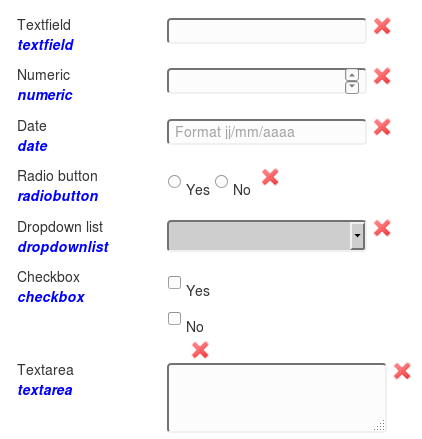
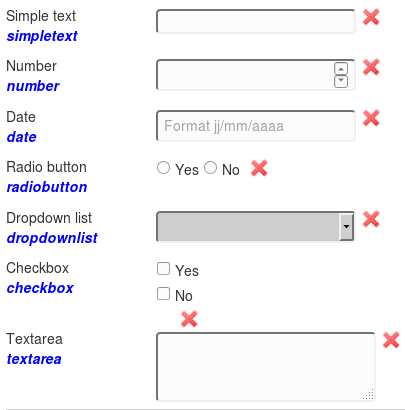
update cosmetique, refactoring

diff --git a/webapp/protected/controllers/FileImportController.php b/webapp/protected/controllers/FileImportController.php
@@ -66,7 +66,7 @@ class FileImportController extends Controller {
                 $fileImport->filename = date('Ymd_H') . 'h' . date('i') . '_' . $uploadedFile->filename->getName();
                 $fileImport->filesize = $uploadedFile->filename->getSize();
                 $fileImport->extension = $uploadedFile->filename->getExtensionName();
-                $fileImport->date_import = DateTime::createFromFormat('d/m/Y', date('d/m/Y'));
+                $fileImport->date_import = DateTime::createFromFormat(CommonTools::FRENCH_SHORT_DATE_FORMAT, date(CommonTools::FRENCH_SHORT_DATE_FORMAT));
                 $fileImport->save();
                 Yii::app()->user->setFlash('succès', Yii::t('common', 'fileMakerImported'));
             } else {
@@ -317,9 +317,9 @@ class FileImportController extends Controller {
                 $answer->login = new MongoId($user->_id);
                 $answer->questionnaireMongoId = new MongoId();
                 $answer->name = "Import Neuropath";
-                $answer->last_modified = DateTime::createFromFormat('d/m/Y', date('d/m/Y'));
+                $answer->last_modified = DateTime::createFromFormat(CommonTools::FRENCH_SHORT_DATE_FORMAT, date(CommonTools::FRENCH_SHORT_DATE_FORMAT));
                 $answer->description = "Données neuropathologiques de la base FileMaker";
-                $answer->last_updated = DateTime::createFromFormat('d/m/Y', date('d/m/Y'));
+                $answer->last_updated = DateTime::createFromFormat(CommonTools::FRENCH_SHORT_DATE_FORMAT, date(CommonTools::FRENCH_SHORT_DATE_FORMAT));
                 $answerGroup = new AnswerGroup;
                 $answerGroup->id = "onglet";
                 $answerGroup->title = "Données neuropathologiques FileMaker";
@@ -336,7 +336,7 @@ class FileImportController extends Controller {
                             $answerQuestion->type = ColumnFileMaker::model()->findByAttributes(array('newColumn' => $answerQuestion->label))->type;
                             $answerQuestion->style = "";
                             if ($answerQuestion->type == "date") {
-                                $answerQuestion->answer = DateTime::createFromFormat('d/m/Y', date('d/m/Y', strtotime($v)));
+                                $answerQuestion->answer = DateTime::createFromFormat(CommonTools::FRENCH_SHORT_DATE_FORMAT, date(CommonTools::FRENCH_SHORT_DATE_FORMAT, strtotime($v)));
                             } elseif ($answerQuestion->type == "number") {
                                 $answerQuestion->answer = new MongoInt32($v);
                             } else {

diff --git a/webapp/protected/modules/auditTrail/behaviors/LoggableBehavior.php b/webapp/protected/modules/auditTrail/behaviors/LoggableBehavior.php
@@ -46,7 +46,7 @@ class LoggableBehavior extends CActiveRecordBehavior {
                     }
                     $log->model_id = $modelId;
                     $log->field = $name;
-                    $log->stamp = DateTime::createFromFormat('d/m/Y', date('d/m/Y'));
+                    $log->stamp = DateTime::createFromFormat(CommonTools::FRENCH_SHORT_DATE_FORMAT, date(CommonTools::FRENCH_SHORT_DATE_FORMAT));
                     $log->user_id = $userid;
                     $log->save();
                 }
@@ -59,7 +59,7 @@ class LoggableBehavior extends CActiveRecordBehavior {
             $log->model = get_class($this->Owner);
             $log->model_id = $this->Owner->_id;
             $log->field = 'N/A';
-            $log->stamp = DateTime::createFromFormat('d/m/Y', date('d/m/Y'));
+            $log->stamp = DateTime::createFromFormat(CommonTools::FRENCH_SHORT_DATE_FORMAT, date(CommonTools::FRENCH_SHORT_DATE_FORMAT));
             $log->user_id = $userid;
             $log->save();
 
@@ -80,7 +80,7 @@ class LoggableBehavior extends CActiveRecordBehavior {
                 }
                 $log->model_id = $modelId;
                 $log->field = $name;
-                $log->stamp = DateTime::createFromFormat('d/m/Y', date('d/m/Y'));
+                $log->stamp = DateTime::createFromFormat(CommonTools::FRENCH_SHORT_DATE_FORMAT, date(CommonTools::FRENCH_SHORT_DATE_FORMAT));
                 $log->user_id = $userid;
                 $log->save();
             }
@@ -112,7 +112,7 @@ class LoggableBehavior extends CActiveRecordBehavior {
         }
         $log->model_id = $modelId;
         $log->field = 'N/A';
-        $log->stamp = DateTime::createFromFormat('d/m/Y', date('d/m/Y'));
+        $log->stamp = DateTime::createFromFormat(CommonTools::FRENCH_SHORT_DATE_FORMAT, date(CommonTools::FRENCH_SHORT_DATE_FORMAT));
         $log->user_id = $userid;
         $log->save();
         return parent::afterDelete($event);

diff --git a/webapp/protected/commands/ImportNeuropathCommand.php b/webapp/protected/commands/ImportNeuropathCommand.php
@@ -267,9 +267,9 @@ class ImportNeuropathCommand extends CConsoleCommand {
                 $answer->login = new MongoId($user->_id);
                 $answer->questionnaireMongoId = new MongoId();
                 $answer->name = "Import Neuropath";
-                $answer->last_modified = DateTime::createFromFormat('d/m/Y', date('d/m/Y'));
+                $answer->last_modified = DateTime::createFromFormat(CommonTools::FRENCH_SHORT_DATE_FORMAT, date(CommonTools::FRENCH_SHORT_DATE_FORMAT));
                 $answer->description = "Données neuropathologiques de la base FileMaker";
-                $answer->last_updated = DateTime::createFromFormat('d/m/Y', date('d/m/Y'));
+                $answer->last_updated = DateTime::createFromFormat(CommonTools::FRENCH_SHORT_DATE_FORMAT, date(CommonTools::FRENCH_SHORT_DATE_FORMAT));
                 $answerGroup = new AnswerGroup;
                 $answerGroup->id = "onglet";
                 $answerGroup->title = "Données neuropathologiques FileMaker";
@@ -292,7 +292,7 @@ class ImportNeuropathCommand extends CConsoleCommand {
                             }
                             $answerQuestion->style = "";
                             if ($answerQuestion->type == "date") {
-                                $answerQuestion->answer = DateTime::createFromFormat('d/m/Y', date('d/m/Y', strtotime($v)));
+                                $answerQuestion->answer = DateTime::createFromFormat(CommonTools::FRENCH_SHORT_DATE_FORMAT, date(CommonTools::FRENCH_SHORT_DATE_FORMAT, strtotime($v)));
                             } else {
                                 $answerQuestion->answer = $v;
                             }

diff --git a/webapp/protected/models/Answer.php b/webapp/protected/models/Answer.php
@@ -327,7 +327,7 @@ class Answer extends LoggableActiveRecord {
      */
     public function getLastModified() {
         if ($this->last_modified != null) {
-            return date('d/m/Y', strtotime($this->last_modified['date']));
+            return date(CommonTools::FRENCH_SHORT_DATE_FORMAT, strtotime($this->last_modified['date']));
         } else {
             return null;
         }
@@ -599,7 +599,7 @@ class Answer extends LoggableActiveRecord {
                     if ($answer->type != "date") {
                         $result = $answer->answer;
                     } else {
-                        $result = date('d/m/Y', strtotime($answer->answer['date']));
+                        $result = date(CommonTools::FRENCH_SHORT_DATE_FORMAT, strtotime($answer->answer['date']));
                     }
                 }
             }
@@ -802,7 +802,7 @@ class Answer extends LoggableActiveRecord {
                         //$resultLine[] = is_array($cQuestion['answer']) ? implode(', ', $cQuestion['answer']) : $cQuestion['answer'];
                         if (is_array($cQuestion['answer'])) {
                             if (isset($cQuestion['answer']['date'])) {
-                                $resultLine[] = date('d/m/Y', strtotime($cQuestion['answer']['date']));
+                                $resultLine[] = date(CommonTools::FRENCH_SHORT_DATE_FORMAT, strtotime($cQuestion['answer']['date']));
                             } else {
                                 $resultLine[] = implode(', ', $cQuestion['answer']);
                             }

diff --git a/webapp/protected/models/Questionnaire.php b/webapp/protected/models/Questionnaire.php
@@ -394,7 +394,7 @@ class Questionnaire extends LoggableActiveRecord
      */
     public function saveQuestionnaireNewGroup($questionGroup)
     {
-        $this->last_modified = DateTime::createFromFormat('d/m/Y', date('d/m/Y'));
+        $this->last_modified = DateTime::createFromFormat(CommonTools::FRENCH_SHORT_DATE_FORMAT, date(CommonTools::FRENCH_SHORT_DATE_FORMAT));
         if ($questionGroup != null) {
 
             //sinon positionnement relatif
@@ -416,7 +416,7 @@ class Questionnaire extends LoggableActiveRecord
 
     public function saveQuestionnaireNewQuestion($questionForm)
     {
-        $this->last_modified = DateTime::createFromFormat('d/m/Y', date('d/m/Y'));
+        $this->last_modified = DateTime::createFromFormat(CommonTools::FRENCH_SHORT_DATE_FORMAT, date(CommonTools::FRENCH_SHORT_DATE_FORMAT));
         $cquestion = new Question;
         $cquestion->setAttributesByQuestionForm($questionForm);
         Yii::log("save questionnaire", CLogger::LEVEL_TRACE);
@@ -459,7 +459,7 @@ class Questionnaire extends LoggableActiveRecord
 
     public function saveQuestionnaireNewQuestionBloc($questionForm)
     {
-        $this->last_modified = DateTime::createFromFormat('d/m/Y', date('d/m/Y'));
+        $this->last_modified = DateTime::createFromFormat(CommonTools::FRENCH_SHORT_DATE_FORMAT, date(CommonTools::FRENCH_SHORT_DATE_FORMAT));
         $cquestion = new Question;
         $cquestion->setAttributesByQuestionForm($questionForm);
         Yii::log("save questionnaire", CLogger::LEVEL_TRACE);

diff --git a/webapp/protected/components/CommonTools.php b/webapp/protected/components/CommonTools.php
@@ -8,6 +8,17 @@
 
 class CommonTools
 {
+    /*
+     * FORMAT DATE
+     */
+    const MYSQL_DATE_FORMAT = "Y-m-d H:i:s";
+    const MYSQL_DATE_DAY_FORMAT = "Y-m-d 00:00:00";
+    const FRENCH_DATE_FORMAT = "H:i:s d/m/Y";
+    const FRENCH_SHORT_DATE_FORMAT = "d/m/Y";
+    const ENGLISH_SHORT_DATE_FORMAT = "Y-m-d";
+    const FRENCH_HD_DATE_FORMAT = "d/m/Y H:i";
+    const ENGLISH_HD_DATE_FORMAT = "Y-m-d H:i";
+    const HOUR_DATE_FORMAT = "H:i";
 
     public function wsGetPatient($patient)
     {
@@ -66,7 +77,7 @@ class CommonTools
      * @return type
      */
     public function formatDateFR($date) {
-        return date('d/m/Y', strtotime($date));
+        return date(CommonTools::FRENCH_SHORT_DATE_FORMAT, strtotime($date));
     }
     
     /**
@@ -76,8 +87,8 @@ class CommonTools
     public function formatDatePicker($date) {
         $res = array();
         $answerDate = explode("-", str_replace(' ', '', $date));
-        $res['date_from'] = date('Y-m-d', strtotime(str_replace('/', '-', $answerDate[0])));
-        $res['date_to'] = date('Y-m-d', strtotime(str_replace('/', '-', $answerDate[1])));
+        $res['date_from'] = date(CommonTools::ENGLISH_SHORT_DATE_FORMAT, strtotime(str_replace('/', '-', $answerDate[0])));
+        $res['date_to'] = date(CommonTools::ENGLISH_SHORT_DATE_FORMAT, strtotime(str_replace('/', '-', $answerDate[1])));
         return $res;
     }
     

diff --git a/webapp/protected/models/QuestionForm.php b/webapp/protected/models/QuestionForm.php
@@ -111,14 +111,14 @@ class QuestionForm extends CFormModel {
      */
     public function getArrayTypes() {
         $res = array();
-        $res ['input'] = "texte simple";
-        $res ['number'] = "numérique";
-        $res ['date'] = "date";
-        $res ['radio'] = "radio bouton";
-        $res ['list'] = "liste déroulante";
-        $res ['checkbox'] = "case(s) à cocher";
-        $res ['text'] = "aire de texte";
-        $res ['expression'] = "expression";
+        $res ['input'] = Yii::t('common', 'simpleText');
+        $res ['number'] = Yii::t('common', 'number');
+        $res ['date'] = Yii::t('common', 'date');
+        $res ['radio'] = Yii::t('common', 'radio');
+        $res ['list'] = Yii::t('common', 'list');
+        $res ['checkbox'] = Yii::t('common', 'checkbox');
+        $res ['text'] = Yii::t('common', 'textarea');
+        $res ['expression'] = Yii::t('common', 'expression');
         return $res;
     }
 
@@ -127,8 +127,8 @@ class QuestionForm extends CFormModel {
      */
     public function getArrayStyles() {
         $res = array();
-        $res [''] = "Alignement à gauche";
-        $res ['float:right'] = "Alignement à droite";
+        $res [''] = Yii::t('common', 'floatLeft');
+        $res ['float:right'] = Yii::t('common', 'floatRight');
         return $res;
     }
    

diff --git a/webapp/protected/views/formulaire/_form_question_update.php b/webapp/protected/views/formulaire/_form_question_update.php
@@ -6,12 +6,14 @@
         'enableAjaxValidation' => false,
     ));
     ?>
+    
+    <p class="note"><?php echo Yii::t('common', 'requiredField'); ?></p>
 
     <div class="row">
         <div class="col-lg-12">
             <?php
-            echo CHtml::label(Yii::t('common', 'currentLabel'), 'old_question');
-            echo CHtml::dropDownList('old_question', '', $model->getArrayQuestions(), array("required" => "required"));
+            echo CHtml::label('<span class="required" style="float:right; margin-left:5px">*</span>' . Yii::t('common', 'currentLabel'), 'old_question', array('class' => 'required'));
+            echo CHtml::textfield('old_question', '', array("required" => "required", "readonly" => "readonly"));
             ?>
             <div id="result"></div>
         </div>
@@ -20,7 +22,7 @@
     <div class="row">
         <div class="col-lg-12">
             <?php
-            echo CHtml::label(Yii::t('common', 'newLabel'), 'new_question');
+            echo CHtml::label('<span class="required" style="float:right; margin-left:5px">*</span>' . Yii::t('common', 'newLabel'), 'new_question', array('class' => 'required'));
             echo CHtml::textfield('new_question', '', array("required" => "required"));
             ?>
         </div>

diff --git a/webapp/protected/controllers/AnswerController.php b/webapp/protected/controllers/AnswerController.php
@@ -199,7 +199,7 @@ class AnswerController extends Controller {
             $this->redirect(array('answer/affichepatient'));
         }
         if (isset($_POST['Questionnaire'])) {
-            $model->last_updated = DateTime::createFromFormat('d/m/Y', date('d/m/Y'));
+            $model->last_updated = DateTime::createFromFormat(CommonTools::FRENCH_SHORT_DATE_FORMAT, date(CommonTools::FRENCH_SHORT_DATE_FORMAT));
             $flagNoInputToSave = true;
             foreach ($model->answers_group as $answer_group) {
                 foreach ($answer_group->answers as $answerQuestion) {
@@ -239,7 +239,7 @@ class AnswerController extends Controller {
         $model = $this->loadModel($id);
         $nbMax = 0;
         if (isset($_POST['Questionnaire'])) {
-            $model->last_updated = DateTime::createFromFormat('d/m/Y', date('d/m/Y'));
+            $model->last_updated = DateTime::createFromFormat(CommonTools::FRENCH_SHORT_DATE_FORMAT, date(CommonTools::FRENCH_SHORT_DATE_FORMAT));
             foreach ($model->answers_group as $answer_group) {
                 foreach ($answer_group->answers as $answerQuestion) {
                     $nbMax = $model->getMaxIdGene($nbMax, $answerQuestion->id);

diff --git a/webapp/protected/views/formulaire/update.php b/webapp/protected/views/formulaire/update.php
@@ -3,7 +3,6 @@ Yii::app()->clientScript->registerScript('form_question', "
 $('.question-label').on('dblclick', function(event) {
     $('#updateQuestion').modal();
     $('.col-lg-12 #old_question').val($(this).attr('id'));
-    $('#old_question option:not(:selected)').hide();
 });
 
 $('#QuestionBlocForm_title').change(function(){
@@ -27,13 +26,13 @@ height: 25px;
 <?php
 if ($model->last_modified != null && $model->last_modified != "") {
     $q = Questionnaire::model()->findByPk(new MongoId($_GET['id']));
-    echo "<p><b>" . Yii::t('common', 'lastModifiedDate') . ": </b>" . date('d/m/Y', strtotime($q->last_modified['date'])) . "</p>";
+    echo "<p><b>" . Yii::t('common', 'lastModifiedDate') . ": </b>" . date(CommonTools::FRENCH_SHORT_DATE_FORMAT, strtotime($q->last_modified['date'])) . "</p>";
 }
 ?>
 <p><?php echo "<b>" . Yii::t('common', 'createdBy') . "</b>: " . $model->creator; ?></p>
 <hr />
 
-<?php echo CHtml::errorSummary($model, null, null, array('class' => 'alert alert-error')); ?>
+<?php echo CHtml::errorSummary($model, null, null, array('class' => 'alert alert-danger')); ?>
 <div class="form">
     <?php
     $form = $this->beginWidget('CActiveForm', array(

diff --git a/webapp/protected/controllers/FormulaireController.php b/webapp/protected/controllers/FormulaireController.php
@@ -267,7 +267,7 @@ class FormulaireController extends Controller {
      * @param questionnaire
      */
     public function saveQuestionnaireNewQuestion($questionnaire, $questionForm) {
-        $questionnaire->last_modified = DateTime::createFromFormat('d/m/Y', date('d/m/Y'));
+        $questionnaire->last_modified = DateTime::createFromFormat(CommonTools::FRENCH_SHORT_DATE_FORMAT, date(CommonTools::FRENCH_SHORT_DATE_FORMAT));
         $cquestion = new Question;
         $cquestion->setAttributesByQuestionForm($questionForm);
         Yii::log("save questionnaire", CLogger::LEVEL_TRACE);
@@ -333,7 +333,7 @@ class FormulaireController extends Controller {
      * @param questionnaire
      */
     public function saveQuestionnaireNewGroup($questionnaire, $questionGroup) {
-        $questionnaire->last_modified = DateTime::createFromFormat('d/m/Y', date('d/m/Y'));
+        $questionnaire->last_modified = DateTime::createFromFormat(CommonTools::FRENCH_SHORT_DATE_FORMAT, date(CommonTools::FRENCH_SHORT_DATE_FORMAT));
         if ($questionGroup != null) {
 
             //sinon positionnement relatif

diff --git a/webapp/protected/models/Question.php b/webapp/protected/models/Question.php
@@ -128,14 +128,14 @@ class Question extends LoggableActiveRecord {
      */
     public function getArrayTypes() {
         $res = array();
-        $res ['input'] = "texte simple";
-        $res ['number'] = "numérique";
-        $res ['date'] = "date";
-        $res ['radio'] = "radio bouton";
-        $res ['list'] = "liste déroulante";
-        $res ['checkbox'] = "case(s) à cocher";
-        $res ['text'] = "aire de texte";
-        $res ['expression'] = "expression";
+        $res ['input'] = Yii::t('common', 'simpleText');
+        $res ['number'] = Yii::t('common', 'number');
+        $res ['date'] = Yii::t('common', 'date');
+        $res ['radio'] = Yii::t('common', 'radio');
+        $res ['list'] = Yii::t('common', 'list');
+        $res ['checkbox'] = Yii::t('common', 'checkbox');
+        $res ['text'] = Yii::t('common', 'textarea');
+        $res ['expression'] = Yii::t('common', 'expression');
         return $res;
     }
 
